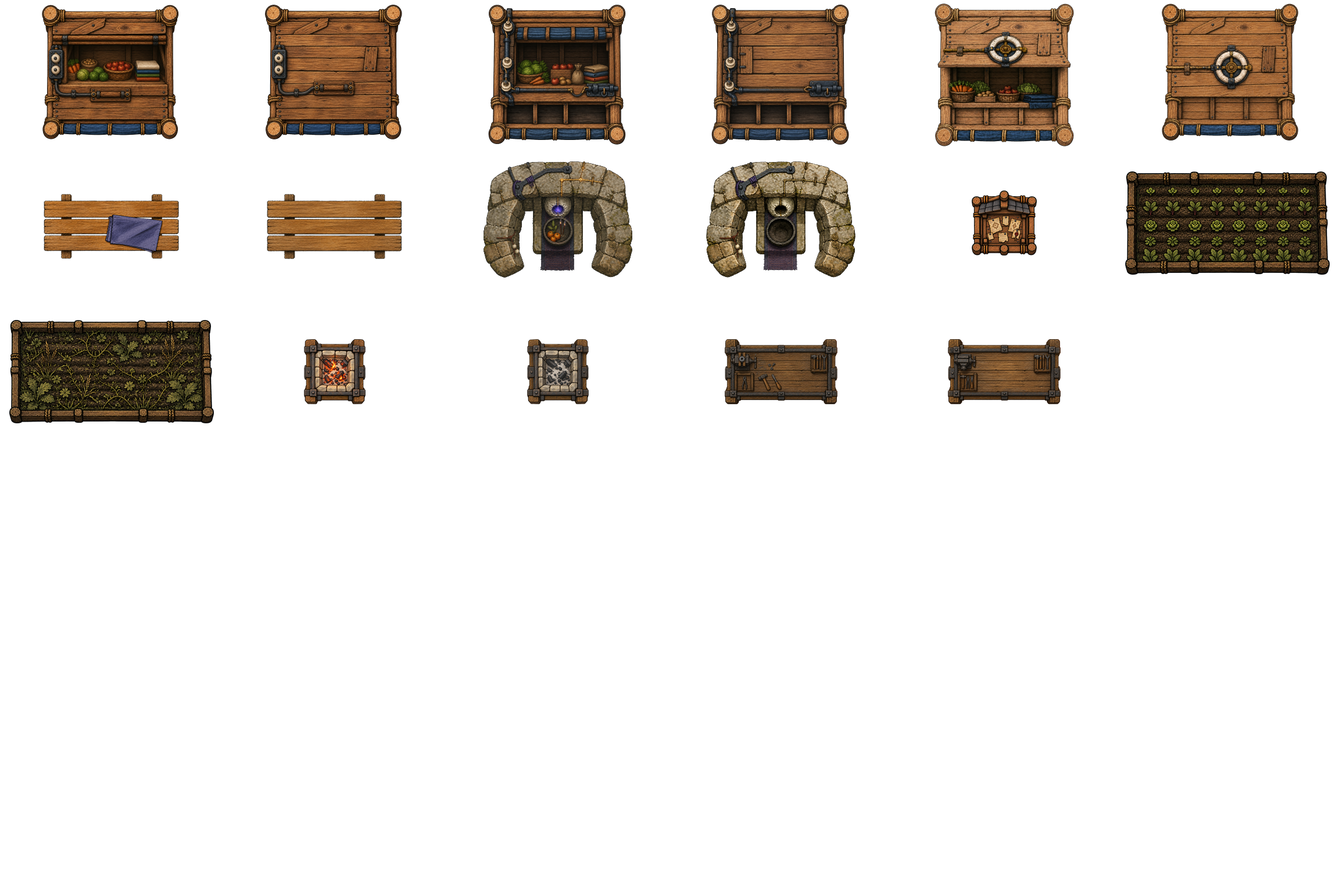
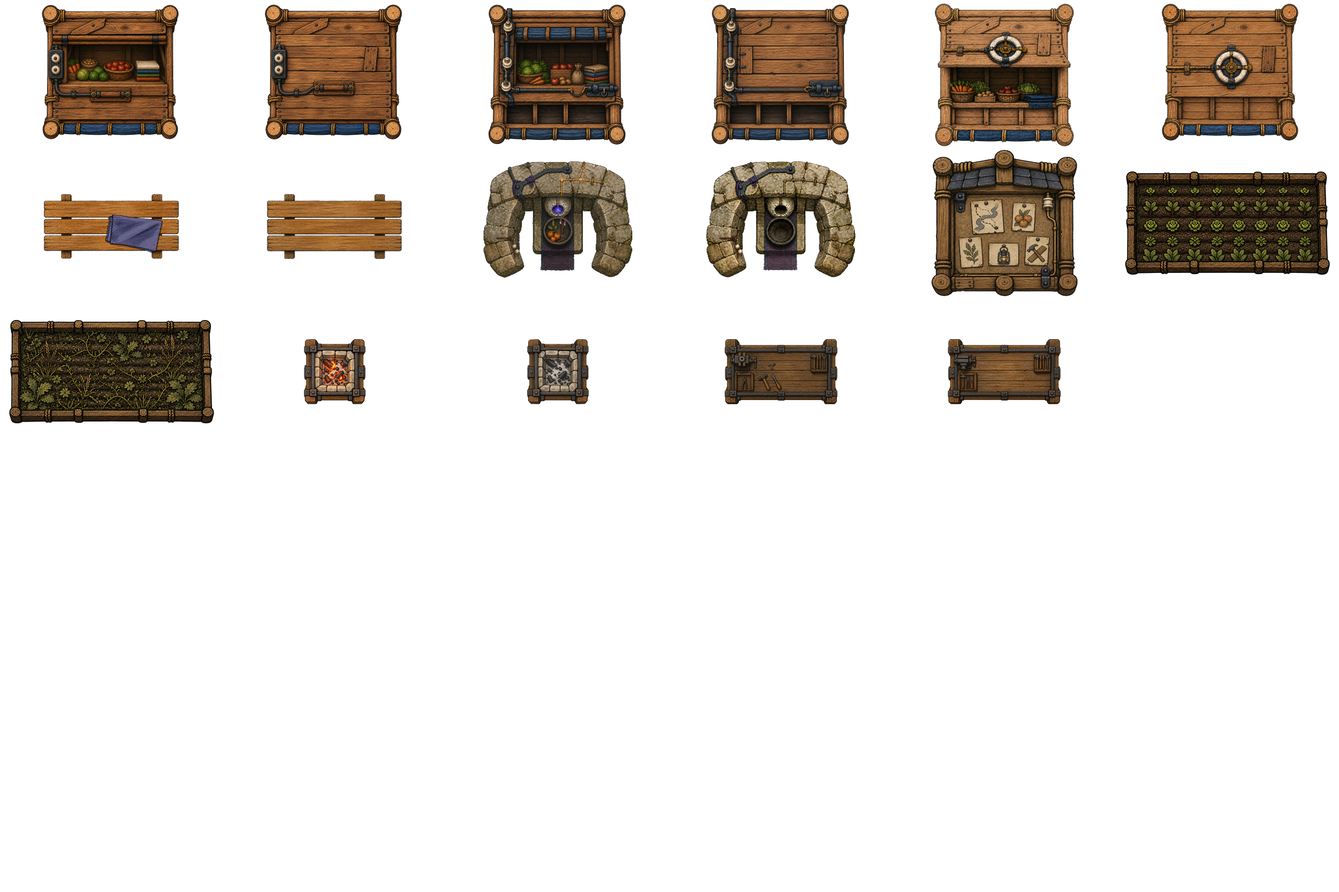
Better board and new roof assets.

Changed region(s): [[0.6875, 0.1562, 0.8125, 0.3438]]

diff --git a/environments/three_branches/renderer/core/presentation.ts b/environments/three_branches/renderer/core/presentation.ts
@@ -279,18 +279,6 @@ export interface PropContactShadowTreatment {
   offsetYCells: number
 }
 
-/** Roof tile frame roles for one semantic building type. */
-export interface RoofFramesTreatment {
-  /** Hash-picked interior fill frames, including the alternate variants. */
-  fills: readonly string[]
-  /** Perimeter edge frame between corners. */
-  edge: string
-  /** Corner frame, quarter-rotated to each canonical corner. */
-  corner: string
-  /** Ridge frame across the middle row's interior columns. */
-  ridge: string
-}
-
 /** Validated art and motion calibration owned by presentation.json. */
 interface VisualScaleTreatment {
   defaultScale: number
@@ -366,7 +354,7 @@ export interface HearthsideStyle {
   roofs: {
     clearAlpha: number
     fadeMs: number
-    frames: Readonly<Record<string, RoofFramesTreatment>>
+    frames: Readonly<Record<string, string>>
   }
   postEffects: {
     nightGrade: ColorGradeTreatment
@@ -566,14 +554,17 @@ export function readHearthsideStyle(value: unknown): HearthsideStyle {
     'presentation.roofs.frames',
     CATALOG.buildings.map((building) => building.token),
   )
-  const buildingFrames = framesFor(atlases, 'buildings')
   const roofs = {
     clearAlpha: unitNumber(roofsSource.clearAlpha, 'presentation.roofs.clearAlpha'),
     fadeMs: positiveNumber(roofsSource.fadeMs, 'presentation.roofs.fadeMs'),
     frames: Object.fromEntries(
       Object.entries(roofFramesSource).map(([name, frameValue]) => [
         name,
-        roofFramesTreatment(frameValue, `presentation.roofs.frames.${name}`, buildingFrames),
+        knownText(
+          frameValue,
+          framesFor(atlases, 'buildings', name),
+          `presentation.roofs.frames.${name}`,
+        ),
       ]),
     ),
   }
@@ -817,20 +808,6 @@ function propContactShadowTreatment(
     widthFactor: boundedNumber(source.widthFactor, `${name}.widthFactor`, 0, 2),
     heightFactor: boundedNumber(source.heightFactor, `${name}.heightFactor`, 0, 2),
     offsetYCells: boundedNumber(source.offsetYCells, `${name}.offsetYCells`, 0, 0.25, true),
-  }
-}
-
-function roofFramesTreatment(
-  value: unknown,
-  name: string,
-  knownFrames: ReadonlySet<string>,
-): RoofFramesTreatment {
-  const source = exactRecord(value, name, ['fills', 'edge', 'corner', 'ridge'])
-  return {
-    fills: frameNames(source.fills, `${name}.fills`, knownFrames),
-    edge: knownText(source.edge, knownFrames, `${name}.edge`),
-    corner: knownText(source.corner, knownFrames, `${name}.corner`),
-    ridge: knownText(source.ridge, knownFrames, `${name}.ridge`),
   }
 }
 

diff --git a/environments/three_branches/renderer/core/presentation.test.ts b/environments/three_branches/renderer/core/presentation.test.ts
@@ -269,28 +269,17 @@ describe('Hearthside Ink presentation', () => {
     expect(() => readHearthsideStyle(unknownTint)).toThrow('reedMarks.tint is unknown')
   })
 
-  it('rejects malformed role-keyed roof frames', () => {
-    const unknownRole = structuredClone(HEARTHSIDE_STYLE) as any
-    unknownRole.roofs.frames.home.mode = 'gable'
-    expect(() => readHearthsideStyle(unknownRole)).toThrow('roofs.frames.home keys do not match')
+  it('requires one matching full-roof frame for each building type', () => {
+    const frameObject = structuredClone(HEARTHSIDE_STYLE) as any
+    frameObject.roofs.frames.home = { frame: 'homeRoof' }
+    expect(() => readHearthsideStyle(frameObject)).toThrow('roofs.frames.home must be text')
 
     const unknownFrame = structuredClone(HEARTHSIDE_STYLE) as any
-    unknownFrame.roofs.frames.inn.edge = 'missingFrame'
-    expect(() => readHearthsideStyle(unknownFrame)).toThrow('roofs.frames.inn.edge is unknown')
-
-    const emptyFills = structuredClone(HEARTHSIDE_STYLE) as any
-    emptyFills.roofs.frames.shed.fills = []
-    expect(() => readHearthsideStyle(emptyFills)).toThrow(
-      'roofs.frames.shed.fills must contain at least one frame',
-    )
+    unknownFrame.roofs.frames.inn = 'missingFrame'
+    expect(() => readHearthsideStyle(unknownFrame)).toThrow('roofs.frames.inn is unknown')
 
     const extraBuilding = structuredClone(HEARTHSIDE_STYLE) as any
-    extraBuilding.roofs.frames.barn = {
-      fills: ['homeFill', 'homeFillAlt'],
-      edge: 'homeEdge',
-      corner: 'homeCorner',
-      ridge: 'homeRidge',
-    }
+    extraBuilding.roofs.frames.barn = 'barnRoof'
     expect(() => readHearthsideStyle(extraBuilding)).toThrow(
       'roofs.frames keys do not match its contract',
     )

diff --git a/environments/three_branches/renderer/assets.ts b/environments/three_branches/renderer/assets.ts
@@ -401,7 +401,7 @@ export interface ThreeBranchesRuntimeAssets<T> {
   lantern: T
   monuments: T
   bell: T
-  buildings: T
+  buildings: { home: T; inn: T; shed: T }
   scenery: T
   characters: { body: T; clothing: T; arms: T; details: T }
   effects: T
@@ -417,7 +417,7 @@ interface RuntimeAtlasPage {
   mipmaps: boolean
 }
 
-/** Resolve and load the atlas pages consumed by shipped terrain, prop, and character art. */
+/** Resolve and load the atlas pages consumed by shipped world and character art. */
 export async function loadThreeBranchesRuntimeAssets<T>(
   load: (source: string, options?: ThreeBranchesRuntimeAssetLoadOptions) => Promise<T> | T,
 ): Promise<ThreeBranchesRuntimeAssets<T>> {
@@ -448,7 +448,11 @@ export async function loadThreeBranchesRuntimeAssets<T>(
     lantern: required('lantern'),
     monuments: required('monuments'),
     bell: required('bell'),
-    buildings: required('buildings'),
+    buildings: {
+      home: required('buildings', 'home'),
+      inn: required('buildings', 'inn'),
+      shed: required('buildings', 'shed'),
+    },
     scenery: required('scenery'),
     characters: {
       body: required('characters', 'body'),

diff --git a/environments/three_branches/renderer/assets.test.ts b/environments/three_branches/renderer/assets.test.ts
@@ -229,6 +229,26 @@ describe('Three Branches asset catalog', () => {
         './assets/source-art/frames/props/repairBenchBusy.png',
       ]),
     )
+    const board = props?.cells.find((cell) => cell.name === 'boardNone')
+    expect(board).toEqual({
+      name: 'boardNone',
+      source: { path: './assets/source-art/frames/props/boardNone.png' },
+      render: {
+        kind: 'fitVisible',
+        sourceAlpha: { clearAtOrBelow: 0, opaqueAtOrAbove: 255 },
+        bounds: { alphaAbove: 0 },
+        maxSize: { width: 252, height: 252 },
+        anchor: { x: 192, y: 128 },
+        resampler: 'bilinear-premultiplied-encoded-rgb',
+        outputAlpha: { clearAtOrBelow: 0, clearColorAtZero: true },
+      },
+    })
+    expect(readPngHeader(board?.source.path ?? '')).toMatchObject({
+      width: 512,
+      height: 512,
+      colorType: 6,
+    })
+    expect(coloredTransparentPixelCount(board?.source.path ?? '')).toBe(0)
     const lantern = ATLAS_PAGES.find((page) => page.group === 'lantern')
     expect(lantern).toMatchObject({
       pageKey: 'lantern',

diff --git a/environments/three_branches/renderer/index.ts b/environments/three_branches/renderer/index.ts
@@ -694,7 +694,9 @@ export class ThreeBranchesRenderer extends PixiRenderer {
           assets.lantern,
           assets.monuments,
           assets.bell,
-          assets.buildings,
+          assets.buildings.home,
+          assets.buildings.inn,
+          assets.buildings.shed,
           assets.scenery,
           assets.characters.body,
           assets.characters.clothing,

diff --git a/plans/days-at-three-branches/stages/5-3-visual-refinement.md b/plans/days-at-three-branches/stages/5-3-visual-refinement.md
@@ -89,7 +89,7 @@ Keep prop state meanings and interaction and collision footprints. Keep the lant
 
 The lantern keeps its dedicated 2 by 1 page with 384 by 512 cells but behaves like an ordinary one-cell prop. Each state is one complete lower-layer sprite centered at `(0, 0)`, with its visible 160 px silhouette scaled by `0.10` to match the 16-unit collision cell. Its contact shadow, selection outline, runtime flicker, and emissive light use the same collision center. The complete lantern does not use registered anchors, split clips, or an upper-layer sprite.
 
-Pump keeps registered high-resolution art while occupying one gameplay cell. It keeps density divisor `4` and its source anchor, with complementary clips separating the circular well base from its upper mechanism. The props, lantern, monuments, bell, and scenery atlas groups use generated mipmaps for clean minification, covering stalls and pines as well as the remaining interactive props. Bell uses a dedicated double-density page with 1536 by 1024 frames and density divisor `16`. Its state-independent foundation stays below characters; its fixed gantry and separately animated circular bell stay above them. Registration, fixed facing, collision scaling, contact shadows, and layer roles remain separate renderer contracts. The notice board joins lantern, shrine, pump, and bell as a fixed-facing prop, so it always draws north whatever facing generation records. Every catalog rectangle, collision circle, selection, generation placement, shadow, and highlight remains one cell.
+Pump keeps registered high-resolution art while occupying one gameplay cell. It keeps density divisor `4` and its source anchor, with complementary clips separating the circular well base from its upper mechanism. The props, lantern, monuments, bell, and scenery atlas groups use generated mipmaps for clean minification, covering stalls and pines as well as the remaining interactive props. Bell uses a dedicated double-density page with 1536 by 1024 frames and density divisor `16`. Its state-independent foundation stays below characters; its fixed gantry and separately animated circular bell stay above them. Registration, fixed facing, collision scaling, contact shadows, and layer roles remain separate renderer contracts. The notice board joins lantern, shrine, pump, and bell as a fixed-facing prop, so it always draws north whatever facing generation records. Every prop retains its catalog footprint, collision, selection, generation placement, shadow, and highlight.
 
 The owner selected magic-punk lantern C. Its compact octagonal beacon, exact overhead projection, timber tone, baked light, and runtime glow define the current reference treatment. Its true unlit state keeps identical geometry and centered placement while removing the powered core and baked halo. The selected lit and unlit art, dedicated runtime page, and source provenance are promoted for integrated scene review.
 
@@ -99,11 +99,15 @@ The prop language is old magical infrastructure kept alive by rough, competent v
 
 The owner approved all three magic-punk stall constructions and their matching open states. All three use the same medium warm timber family, including construction C in both states. The renderer assigns a construction once from the prop ID and preserves it across state, facing, reconciliation, and art reinstall. Numeric suffixes cycle A, B, C by modulo three (`stall_0` uses A, `stall_1` uses B, `stall_2` uses C, `stall_3` uses A); IDs without a numeric suffix use A. State selects only the matching open or closed frame. All six frames remain ordinary lower-layer art on the 384 by 256 props grid. Their configured source cells, compiled atlas, and source provenance are promoted together as one art change. The stall texture's front reads the opposite way from the recorded facing, so the renderer draws each stall sprite half a turn round from where it stands.
 
-The approved concept and material board define the art language for all interactive props and the market crate. The selected lantern supplies secondary production continuity for timber tone and magic-punk material accents only when it agrees with those primary references. Regenerate full-colour art rather than tinting it at runtime, and use no wood mask, shader, numeric colour tolerance, or colour snapshot test. Continue one family at a time in this order: bench, shrine, board, plot, hearth, repair bench, pump, then bell. For each neutral or base state, generate three alternatives with fixed construction and one named mark-making hypothesis each, then present them without runtime integration. The owner selects or redirects one treatment before the remaining states are derived from it. A later construction study may change silhouette only when the owner explicitly makes construction the experiment variable. Gameplay footprint, state meaning, registration, and projection remain fixed. Grain, wear, and light-to-dark proportions may vary, but the props do not form separate blond, orange, gray, or dark-brown timber families. Buildings and pines remain outside this pass. The board stays on its 384 by 256 canvas and keeps its interim scale override until its later re-authoring.
+The approved concept and material board define the art language for all interactive props and the market crate. The selected lantern supplies secondary production continuity for timber tone and magic-punk material accents only when it agrees with those primary references. Regenerate full-colour art rather than tinting it at runtime, and use no wood mask, shader, numeric colour tolerance, or colour snapshot test. Continue one family at a time in this order: bench, shrine, board, plot, hearth, repair bench, pump, then bell. For each neutral or base state, generate three alternatives with fixed construction and one named mark-making hypothesis each, then present them without runtime integration. The owner selects or redirects one treatment before the remaining states are derived from it. A later construction study may change silhouette only when the owner explicitly makes construction the experiment variable. Gameplay footprint, state meaning, registration, and projection remain fixed. Grain, wear, and light-to-dark proportions may vary, but the props do not form separate blond, orange, gray, or dark-brown timber families. Buildings and pines remain outside this pass. The board keeps a 512 by 512 canonical source inside the shared props atlas contract.
 
 On 2026-08-22, the owner made the Hearthside Ink concept and material board the primary style authorities and rejected bench comparison 1 because it varied plank construction while missing the concept's ink-and-wash language. [Bench comparison 2](../art/bench-comparison-2/prompts.md) excluded the lantern, stalls, runtime props, and comparison 1 from the controlled style experiment. It held one exact-overhead three-plank construction fixed and varied only line-led, balanced, and wash-led mark making against the direct conceptual bench crop and isolated timber and ink references. The owner selected balanced variant B, then requested clearer colour without the absorbent-paper treatment. The revised empty and occupied states use the same small registered bench, clearer warm cedar values, controlled hand tint, and no bloom, granulation, or paper haze. A larger indigo-violet cloth supplies the readable occupied cue at runtime size. Their cleaned 384 by 256 sources are in the working props atlas for the later complete-prop Gate A review.
 
 The owner selected the decorated riven conduit arch from [shrine comparison 2](../art/shrine-comparison-2/prompts.md). Its original warm gray-ochre stone stays fixed while indigo-violet cloth, an ochre beaded cord, brass votive discs, a bone aperture, and an indigo iron brace provide readable permanent accents. The tended state adds fruit, a green sprig, incense, a violet-blue aperture light, and warm light along the existing conductor. Both state stills remain centered lower-layer art on the 384 by 256 props grid with the existing 3 by 3 gameplay footprint, fixed north presentation, state names, and timing.
+
+The selected notice board from [board comparison 1](../art/board-comparison-1/prompts.md) combines decisive dry-brush structural ink with clear warm cedar colour. Its five pinned notices carry bold pictorial postings for a river route, market fruit, an herb sprig, a lantern, and a repair task, with no readable writing. Indigo iron clips, a bone ceramic insulator, and one brass conductor path carry the shared magic-punk language. The shared normalizer places its visible pixels within the centered `(32, 32, 448, 448)` target on a 512 by 512 canonical source. The shared props-atlas recipe then uses the full safe 252 px cell height and preserves the source proportions, producing a centered 251 by 252 runtime silhouette. Scale `0.12444444444444444` preserves the prior 31.36-unit vertical extent and gives a 31.24-unit horizontal extent. The fixed-north presentation, ordinary centered anchor, 2 by 2 gameplay footprint, collision, state name, shadow, and highlight remain unchanged. The board does not use a dedicated atlas.
+
+[Plot comparison 1](../art/plot-comparison-1/prompts.md) was rejected because its directional raised-wall projection did not remain credible under runtime rotation. [Plot comparison 2](../art/plot-comparison-2/prompts.md) was also rejected because its shallow edge depth still read as a wall. Both rejected batches retain prompt provenance but no raster proofs. [Plot comparison 3](../art/plot-comparison-3/prompts.md) starts fresh from the accepted closed stall, approval scene, and material board. It holds a true overhead 4 by 2 rectangle, level soil, the stable Hearthside Ink language, and a strict zero-wall rule fixed across two concept alternatives. Construction, botanical composition, and flush hardware layout may vary: A uses four broad flush sleepers, and B uses narrow inlaid planks. The two raw proofs await owner concept selection before the tended state, normalization, or runtime integration.
 
 The tended shrine's drifting violet cloud is a separate 192 by 128 grayscale-alpha effect mask. The base still contains no drifting wisps or detached motes. A reusable optional `opacityAnimation` treatment on any sustained prop effect accepts `mode`, `min`, `max`, and `periodTicks`. The `pingPong` mode resolves absolute opacity from `min` to `max` and back once per configured period. It uses fractional presentation tick and the existing stable prop phase, so the same replay seek always produces the same opacity. The shrine uses `min: 0`, `max: 1`, and `periodTicks: 8`, with a fixed centered scale that aligns the full effect canvas to the shrine canvas. Only opacity animates. This adds no gameplay state, collision rule, mutable effect clock, or shrine emissive.
 

diff --git a/plans/days-at-three-branches/stages/5-1-art-style.md b/plans/days-at-three-branches/stages/5-1-art-style.md
@@ -94,15 +94,15 @@ Build characters from shared north-facing grayscale-alpha masks in a conventiona
 
 ![Approved top-down shooter direction](../art/top-down-shooter-direction.png)
 
-Every ordinary catalog state has one distinct complete north-facing still across its catalog footprint, turned to its facing. The lantern and roadside shrine are symmetric and always draw fixed north, ignoring their recorded facing. Ordinary props use a 384 by 256 runtime canvas that centers their footprint with at least two transparent pixels at its edge. The lantern uses complete 384 by 512 state frames on its dedicated page, with a centered 160 px silhouette scaled by `0.10` to its one-cell collision footprint.
+Every ordinary catalog state has one distinct complete north-facing still across its catalog footprint, turned to its facing. The lantern, roadside shrine, and notice board always draw fixed north, ignoring their recorded facing. Ordinary runtime prop cells use a 384 by 256 canvas that centers their footprint with at least two transparent pixels at its edge. The board keeps a 512 by 512 canonical source and is fitted proportionally into its shared runtime cell. The lantern uses complete 384 by 512 state frames on its dedicated page, with a centered 160 px silhouette scaled by `0.10` to its one-cell collision footprint.
 
-The canvas usable area is 380 by 252 px, which at the 0.14 default scale carries at most 3.36 by 2.24 cells. The board fits the canvas at the default scale, so its 0.28 override is interim: re-author `board/none.png` at 229 by 229 px and delete the override to restore the full 114 pixels per cell. The shrine and the plot do not fit at 0.14, so their overrides are permanent until an atlas re-cut: re-author targets at their new scales, shrine 240 by 240 px at 0.20 (80 px per cell) and plot 377 by 188 px at 0.17 (94 px per cell). A 512 by 512 props cell would hold a 3 by 3 shrine and a 4 by 2 plot at 114 pixels per cell with no overrides; that atlas re-cut is deliberately not part of this change. The shrine's incense effect does not scale with the prop, so the smoke reads slightly smaller over the bigger shrine; that is a re-author concern, not a renderer one.
+The shared canvas usable area is 380 by 252 px, which at the 0.14 default scale carries at most 3.36 by 2.24 cells. The board's 512 by 512 canonical source carries a centered silhouette fitted within a 448 by 448 normalization target. Its configured visible-bounds fit uses the full safe cell height and produces a centered 251 by 252 runtime silhouette at scale `0.12444444444444444`, without aspect distortion or a separate atlas. This preserves the prior 31.36-unit vertical extent and gives a 31.24-unit horizontal extent, a 0.4 percent reduction caused by the source's one-pixel aspect difference. The shrine and the plot do not fit at 0.14, so their overrides are permanent until an atlas re-cut: re-author targets at their new scales, shrine 240 by 240 px at 0.20 (80 px per cell) and plot 377 by 188 px at 0.17 (94 px per cell). A 512 by 512 shared props cell would hold a 3 by 3 shrine and a 4 by 2 plot at 114 pixels per cell with no overrides; that atlas re-cut is deliberately not part of this change. The shrine's incense effect does not scale with the prop, so the smoke reads slightly smaller over the bigger shrine; that is a re-author concern, not a renderer one.
 
 The dedicated monument atlas is the sole authority for the fixed-north pump. Its 768 by 512 masters are tightly authored around their collision registration, never by enlarging legacy transparent bounds. The bell has its own double-density 1536 by 1024 page with foundation, fixed gantry, and moving circular-bell frames. `presentation.props.registeredPropByType` stores each type's texture-density divisor and the absolute source-pixel anchor for each role. The renderer divides the configured pump scale by 4 and the bell scale by 16, then places that source anchor at the collision centre. The pump still anchor is `(344, 384)`. The bell foundation, gantry, and moving-bell anchors are `(768, 512)`, `(768, 960)`, and `(768, 960)`.
 
 The pump is a fixed north-facing monument: its circular footing is mechanically registered to the centered 1.0-cell collision circle while the mechanism may extend north beyond it. The bell has a state-independent circular stone foundation below characters and two fixed-north roles above them: a rectangular pair of parallel posts joined by a crossbeam, plus a separate circular bell in true transparent open space. The gantry stays fixed. Only the circular bell moves while ringing.
 
-The configured prop scale defaults to 0.14, overrides bell to 0.36 for both art parts, overrides pump to 0.33, and overrides shrine to 0.20, board to 0.28, and plot to 0.17, while bell collision remains a 1.0-cell circle. Drive the result only from prop id, type, state, facing, and tick.
+The configured prop scale defaults to 0.14, overrides bell to 0.36 for both art parts, overrides pump to 0.33, shrine to 0.20, board to `0.12444444444444444`, and plot to 0.17, while bell collision remains a 1.0-cell circle. Drive the result only from prop id, type, state, facing, and tick.
 
 | Prop | Still treatment |
 | --- | --- |
@@ -273,7 +273,7 @@ Deferred to [step 5.3 unit 5](5-3-visual-refinement.md#5-four-layered-cast-sets)
 
 ## Props, scenery, and effects
 
-`props-art.ts` resolves every catalog type and state to its north-facing art roles. Ordinary props use 384 by 256 canvases. The pump uses dedicated 768 by 512 monument frames. The bell uses 1536 by 1024 foundation, gantry, and moving-bell frames on its dedicated page. `props-layer.ts` divides the pump scale by 4 and the bell scale by 16, applying each configured source-pixel role anchor so tight masters preserve collision-centered world bounds. `SHIPPED_PROP_TYPES` enables all ten complete prop treatments. The pump ignores placement facing, keeps its centered shadow below characters, and draws its mechanically registered complete still and water effect in the upper character layer. Its water anchor remains in the presentation configuration's original 384 by 256 coordinate system and is multiplied only by the configured pump scale. The bell adds its state-independent foundation to the prop layer below characters, while its fixed gantry, moving circular bell, and line effect stay in the upper character layer. `effects.ts` holds the five sustained accent animations, the bell swing, and emissive specs as pure functions of fractional tick, prop id, state, and stable hash phase. Effect configuration objects own their frames and `frameRate`. `props-layer.ts` applies the configured 0.25 scenery baseline and the catalog footprint to the 2 by 2 market crate, validates the shipped still and needed accent frames before installation, and installs art atomically.
+`props-art.ts` resolves every catalog type and state to its north-facing art roles. Ordinary props use 384 by 256 runtime cells; the board cell is fitted from its 512 by 512 canonical source. The pump uses dedicated 768 by 512 monument frames. The bell uses 1536 by 1024 foundation, gantry, and moving-bell frames on its dedicated page. `props-layer.ts` divides the pump scale by 4 and the bell scale by 16, applying each configured source-pixel role anchor so tight masters preserve collision-centered world bounds. `SHIPPED_PROP_TYPES` enables all ten complete prop treatments. The pump ignores placement facing, keeps its centered shadow below characters, and draws its mechanically registered complete still and water effect in the upper character layer. Its water anchor remains in the presentation configuration's original 384 by 256 coordinate system and is multiplied only by the configured pump scale. The bell adds its state-independent foundation to the prop layer below characters, while its fixed gantry, moving circular bell, and line effect stay in the upper character layer. `effects.ts` holds the five sustained accent animations, the bell swing, and emissive specs as pure functions of fractional tick, prop id, state, and stable hash phase. Effect configuration objects own their frames and `frameRate`. `props-layer.ts` applies the configured 0.25 scenery baseline and the catalog footprint to the 2 by 2 market crate, validates the shipped still and needed accent frames before installation, and installs art atomically.
 
 After visual acceptance, tests cover every catalog state mapping, enabled-type preflight, excluded-type fallback, fixed scaling, centered placement, facing rotation, the fixed-north lantern, shrine, and monument types that ignore it, and deterministic animation. The owner then reviews every state in [the treatment table](#characters-props-and-dressing), the pines and crates, and the emissives.
 

diff --git a/plans/days-at-three-branches/stages/5-0-atlas.md b/plans/days-at-three-branches/stages/5-0-atlas.md
@@ -26,7 +26,7 @@ A cell name is declared explicitly in `presentation.json`; it is not inferred fr
 
 The terrain page is an 8 by 9 grid of 128 px frames on a 1024 by 1152 runtime page. Its 68 named frames leave the final four cells transparent.
 
-The props cell names in `presentation.json` remain ordered by ordinary catalog tokens and states. Slots 0 through 5 contain `stallAOpen`, `stallAClosed`, `stallBOpen`, `stallBClosed`, `stallCOpen`, and `stallCClosed`. Slots 6 through 16 contain the remaining complete prop states in catalog order, from `benchOccupied` through `repairBenchIdle`. Slots 17 through 35 are an unnamed trailing suffix that the compiler fills transparently. The six stall cells use their 1536 by 1024 masters with the configured area resize to 384 by 256. The runtime page remains 2304 by 1536. The six stall cells, compiled page, and source provenance are promoted together as one art unit.
+The props cell names in `presentation.json` remain ordered by ordinary catalog tokens and states. Slots 0 through 5 contain `stallAOpen`, `stallAClosed`, `stallBOpen`, `stallBClosed`, `stallCOpen`, and `stallCClosed`. Slots 6 through 16 contain the remaining complete prop states in catalog order, from `benchOccupied` through `repairBenchIdle`. Slots 17 through 35 are an unnamed trailing suffix that the compiler fills transparently. The six stall cells use their 1536 by 1024 masters with the configured area resize to 384 by 256. The fixed-north board keeps a 512 by 512 canonical source. A configured visible-bounds fit uses the full safe 252 px cell height, preserves the source proportions, and centers the resulting 251 by 252 silhouette at `(192, 128)` in its shared props cell. The runtime page remains 2304 by 1536.
 
 The lantern page is a 2 by 1 grid of 384 by 512 frames on a 768 by 512 runtime page. It names `lanternLit` and `lanternUnlit` from the source paths declared in `presentation.json`.
 
@@ -75,4 +75,4 @@ All three ride the existing vitest include globs, so `scripts/ci.py` needs no ch
 
 ## Done when
 
-All twelve declared pages have complete configured source cells, each compiled page matches its current config, the terrain page matches its 68 cells with four transparent trailing cells, `assets/props-atlas.png` has transparent cells 17 through 35, `assets/lantern-atlas.png` matches its two tall state cells, `assets/monuments-atlas.png` matches its two pump cells with four transparent trailing cells, `assets/bell-atlas.png` matches its three double-density bell roles, and `assets/scenery-atlas.png` matches its seven full-color scenery cells with a transparent eighth cell. `npm run atlas --workspace @game-sandbox/frontend -- check three_branches` passes, compiler and freshness tests are green in CI, the runtime bundle loads only pages with shipped consumers, every configured cell retains its canonical source art, and the plan README and consuming stages reference this compiler.
+All twelve declared pages have complete configured source cells, each compiled page matches its current config, the terrain page matches its 68 cells with four transparent trailing cells, `assets/props-atlas.png` has transparent cells 17 through 35, its board cell is fitted from the 512 by 512 canonical source without aspect distortion, `assets/lantern-atlas.png` matches its two tall state cells, `assets/monuments-atlas.png` matches its two pump cells with four transparent trailing cells, `assets/bell-atlas.png` matches its three double-density bell roles, and `assets/scenery-atlas.png` matches its seven full-color scenery cells with a transparent eighth cell. `npm run atlas --workspace @game-sandbox/frontend -- check three_branches` passes, compiler and freshness tests are green in CI, the runtime bundle loads only pages with shipped consumers, every configured cell retains its canonical source art, and the plan README and consuming stages reference this compiler.
